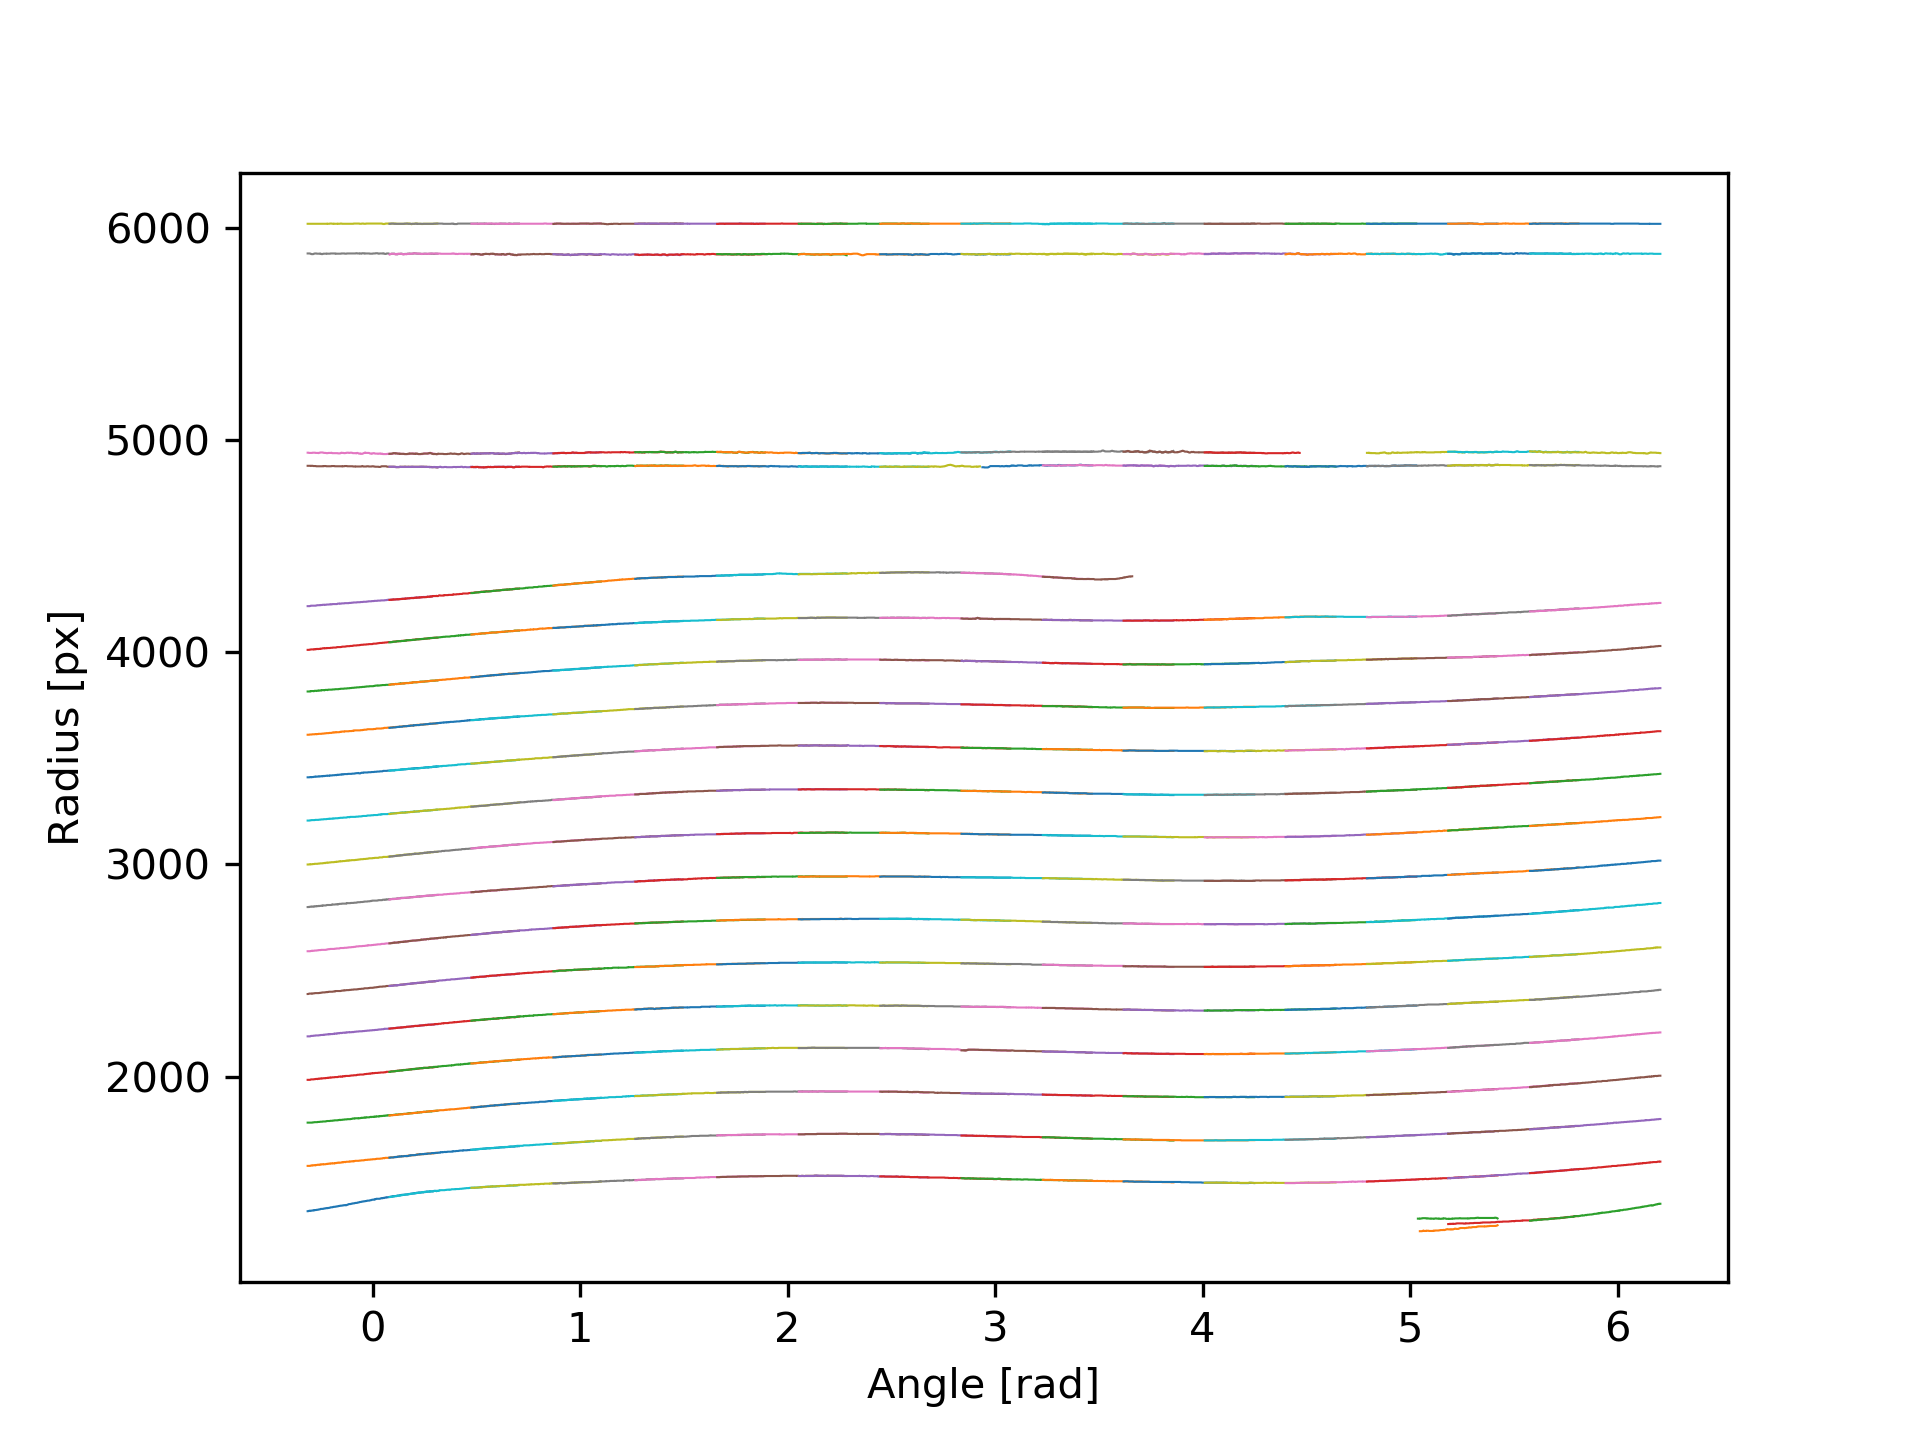
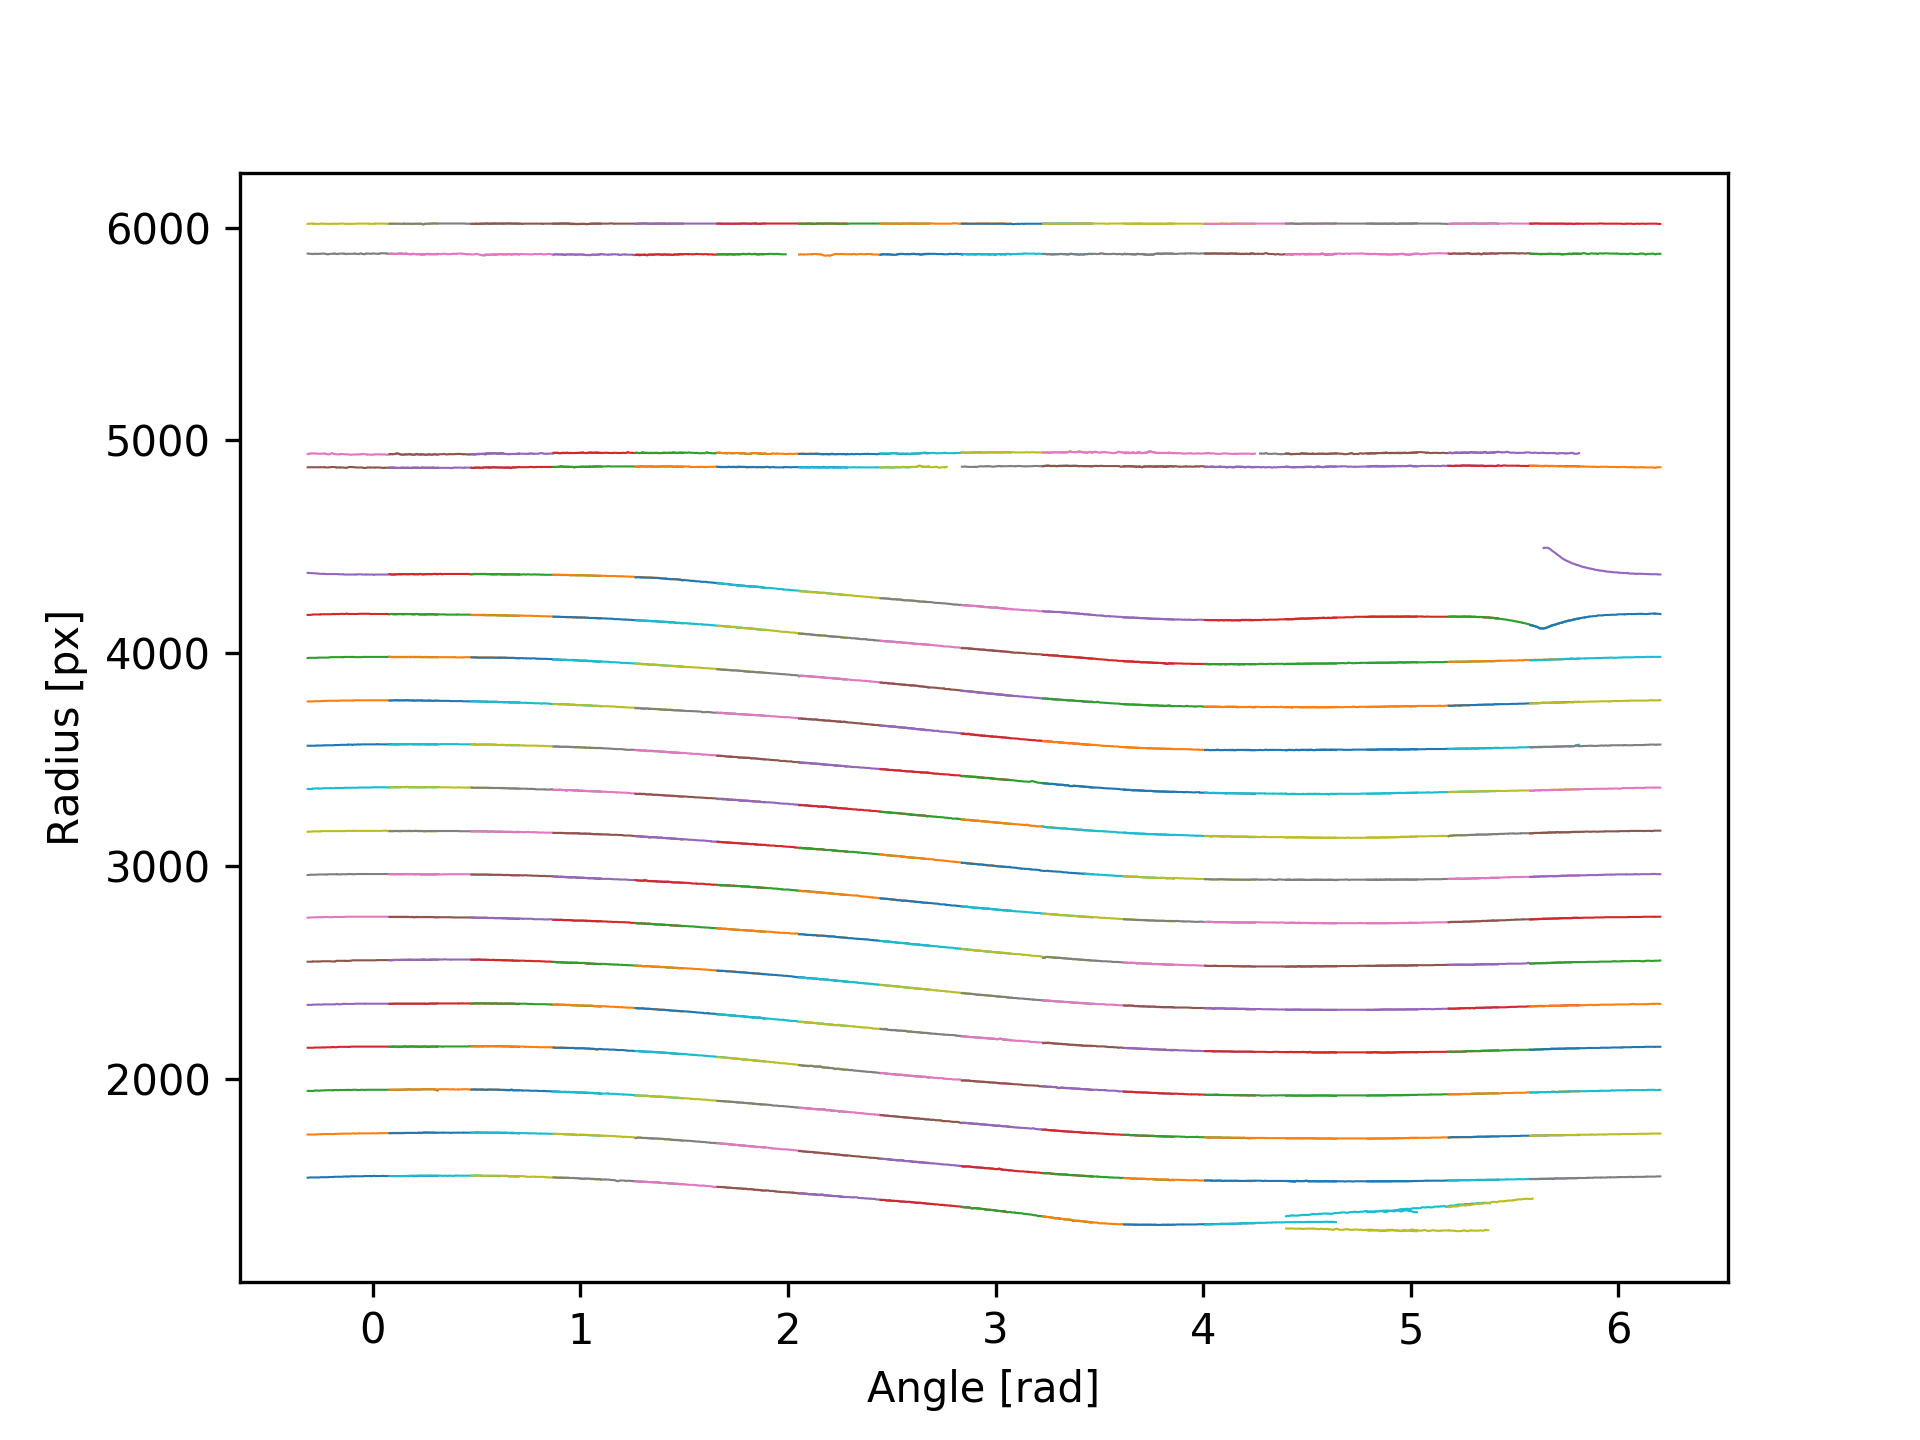
Process Locking

diff --git a/sectorImage/core/image.py b/sectorImage/core/image.py
@@ -17,7 +17,7 @@ __location__ = os.path.realpath(
 
 class Image:
 
-    def __init__(self, fn, calibration):
+    def __init__(self, fn, calibration, lock=None):
         """
         Image processing class
 
@@ -34,20 +34,24 @@ class Image:
         self.midpoint = calibration[self.id - 1][:-1]
         # self.midpoint = calibration[0][:-1]
         print(_C.YEL + 'Processing image ' + _C.BOLD + fn + _C.ENDC)
-        self.image = cv2.imread(self.fn, cv2.IMREAD_GRAYSCALE)
+        if lock is not None:
+            with lock:
+                print('Acquired Lock')
+                self.image = cv2.imread(self.fn, cv2.IMREAD_GRAYSCALE)
+                print('Releasing Lock')
+        else:
+            self.image = cv2.imread(self.fn, cv2.IMREAD_GRAYSCALE)
         self.image = np.rot90(self.image)
         # print('Image loaded in', str(round(time.time() - t0, 2)), 's')
         self.dimensions = np.shape(self.image)
         self.dimy, self.dimx = self.dimensions
 
-    def transformRadial(self, r, midpoint=None, plot=False):
+    def transformRadial(self, midpoint=None, plot=False):
         """
         Creates a transformed image where a sector is mapped to r/phi coordinates
 
         Parameters
         ----------
-        r: float
-            Radius relative to the recorded image within the sector is recorded
         midpoint: 2-tuple of floats, optional
             Origin of the polar coordinate system. If None is given, the calibration data from the current class instantation is taken
         plot: bool, optional
@@ -63,6 +67,7 @@ class Image:
         radii: 1D array of float
             distance scaling of rmax in the transformed image
         """
+        r = self.dimx
         if midpoint is None:
             midpoint = self.midpoint
         # t0 = time.time()

diff --git a/sectorImage/core/stitcher.py b/sectorImage/core/stitcher.py
@@ -8,6 +8,7 @@ from .toolkit import vectools
 from .toolkit.segment import Segment
 import matplotlib.pyplot as plt
 from matplotlib.patches import Wedge
+import multiprocessing as mp
 import sys
 import os
 
@@ -52,9 +53,9 @@ class Stitcher:
         """
         Initialize the SingleImage instances and process the images.
         """
-
+        lock = mp.Lock()
         if self.mpflag:
-            self.images = Parmap(self.singleRoutine, self.fns, self.calibration)
+            self.images = Parmap(self.singleRoutine, self.fns, self.calibration, lock)
         else:
             for fn in self.fns:
                 im = singleImage.SingleImage(fn, self.calibration)
@@ -287,7 +288,7 @@ class Stitcher:
         # Cut band start
         print(chirality)
         print(compP)
-        plott = compP[:]
+        # plott = compP[:]
 
         compP = chirality * compP[::chirality]
         print(compP)
@@ -375,7 +376,7 @@ class Stitcher:
         p = pickler.Pickler()
         p.save(self, fn)
 
-    def singleRoutine(self, fn, calibration):
+    def singleRoutine(self, fn, calibration, lock):
         """
         Image processing routine to be parallelized
 
@@ -387,7 +388,7 @@ class Stitcher:
         # npzfn = 'data/' + (fn.split('/')[-1].split('.')[0]) + '.npz'
         im = singleImage.SingleImage(fn, calibration)
         # im.getFeatures(npz=npzfn)
-        im.getFeatures()
+        im.getFeatures(lock=lock)
         # im.setFeatures(npz=npzfn)
         im.getLines()
         return im

diff --git a/applied/sequence.py b/applied/sequence.py
@@ -168,12 +168,18 @@ class Sequence:
         pair = Pair(env=env, electrodes=(electrode1, electrode2), serial=serial)
         return pair
 
-    def measureOffsite(self, n=16, directory='hardware/combined'):
+    def measureOffsite(self, n=16, directory1='hardware/positive', directory2='hardware/negative'):
         serial = 'RD-OFFSITE'
-        print(_C.CYAN + _C.BOLD + 'Evaluating electrode' + _C.ENDC)
-        spiral, calibration = CombinedSequence(n=n, directory=directory, env=env)
-        electrode = Electrode(serial, spiral, calibration)
-        return electrode
+        print(_C.CYAN + _C.BOLD + 'Evaluating electrode 1' + _C.ENDC)
+        spiral, calibration = CombinedSequence(n=n, directory=directory1, env=env)
+        electrode1 = Electrode(serial, spiral, calibration)
+
+        print(_C.CYAN + _C.BOLD + 'Evaluating electrode 2' + _C.ENDC)
+        spiral, calibration = CombinedSequence(n=n, directory=directory2, env=env)
+        electrode2 = Electrode(serial, spiral, calibration)
+
+        pair = Pair(env=env, electrodes=(electrode1, electrode2), serial=serial)
+        return pair
 
     def storeSpiral(self, spiral, fn=None):
         phis, rs, scale = spiral

diff --git a/sectorImage/core/calibration.py b/sectorImage/core/calibration.py
@@ -21,10 +21,14 @@ class Calibrator:
         self.fns = fns
         self.mpflag = mpflag
 
-    def computeMidpoint(self, fn, plot=False):
+    def computeMidpoint(self, fn, plot=False, lock=None):
         # t0 = time.time()
         print(_C.LIGHT + 'Calibrating image ' + _C.BOLD + fn + _C.ENDC)
-        src = cv2.imread(fn, cv2.IMREAD_GRAYSCALE)
+        if lock is not None:
+            with lock:
+                src = cv2.imread(fn, cv2.IMREAD_GRAYSCALE)
+        else:
+            src = cv2.imread(fn, cv2.IMREAD_GRAYSCALE)
         src = np.rot90(src)
         # print('Image loaded in', str(round(time.time() - t0, 2)), 's')
         src = src.astype(np.uint8, copy=False)
@@ -104,7 +108,8 @@ class Calibrator:
         return (xc, yc, R, residu)
 
     def computeAll(self, tofile=False):
-        self.comp = Parmap(self.computeMidpoint, self.fns)
+        lock = mp.Lock()
+        self.comp = Parmap(self.computeMidpoint, self.fns, lock=lock)
         self.calibration_raw = [c[:3] for c in self.comp]
         self.calibration = self.correction()
         if tofile:

diff --git a/sectorImage/core/singleImage.py b/sectorImage/core/singleImage.py
@@ -20,7 +20,7 @@ class SingleImage:
         self.fn = fn
         self.calibration = calibration
 
-    def getFeatures(self, radius=6000, resolution=None, npz=None):
+    def getFeatures(self, resolution=None, npz=None, lock=None):
         """
         Process the features of the image
 
@@ -34,9 +34,9 @@ class SingleImage:
             If True the results of the feature detection is stored in an .npz file. Default is None
 
         """
-        self.img = image.Image(self.fn, self.calibration)
+        self.img = image.Image(self.fn, self.calibration, lock=lock)
 
-        angularLines, self.angles, self.radii = self.img.transformRadial(r=radius, plot=False)
+        angularLines, self.angles, self.radii = self.img.transformRadial(plot=False)
 
         # self.coverage = self.img.thetaCovered
         # self.features, self.loss = self.img.detectFeatures(angularLines, plot=True)

diff --git a/applied/main.py b/applied/main.py
@@ -9,7 +9,7 @@ from pair import Pair
 
 
 def main():
-    s = Sequence(offsite=False)
+    s = Sequence(offsite=True)
     s.prime()
     pair = s.measure(n=16)
     pair.store()
